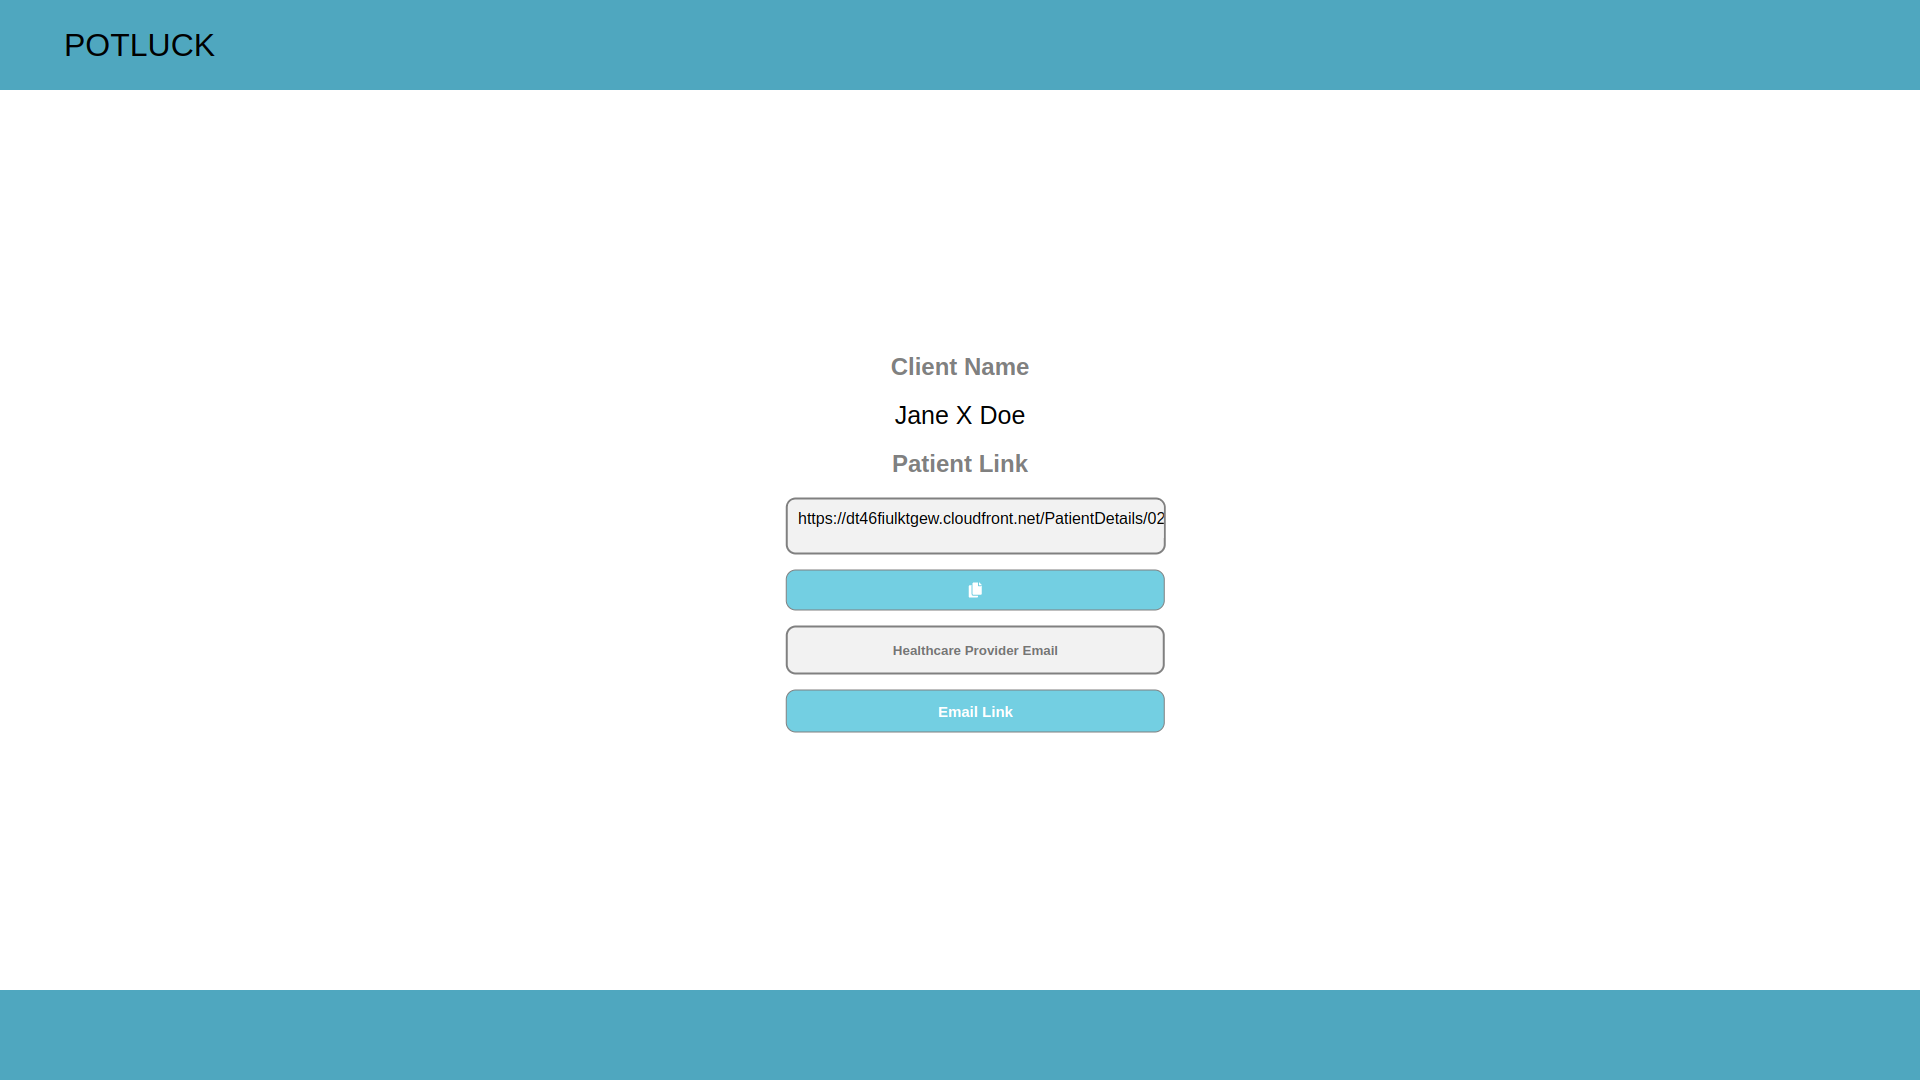
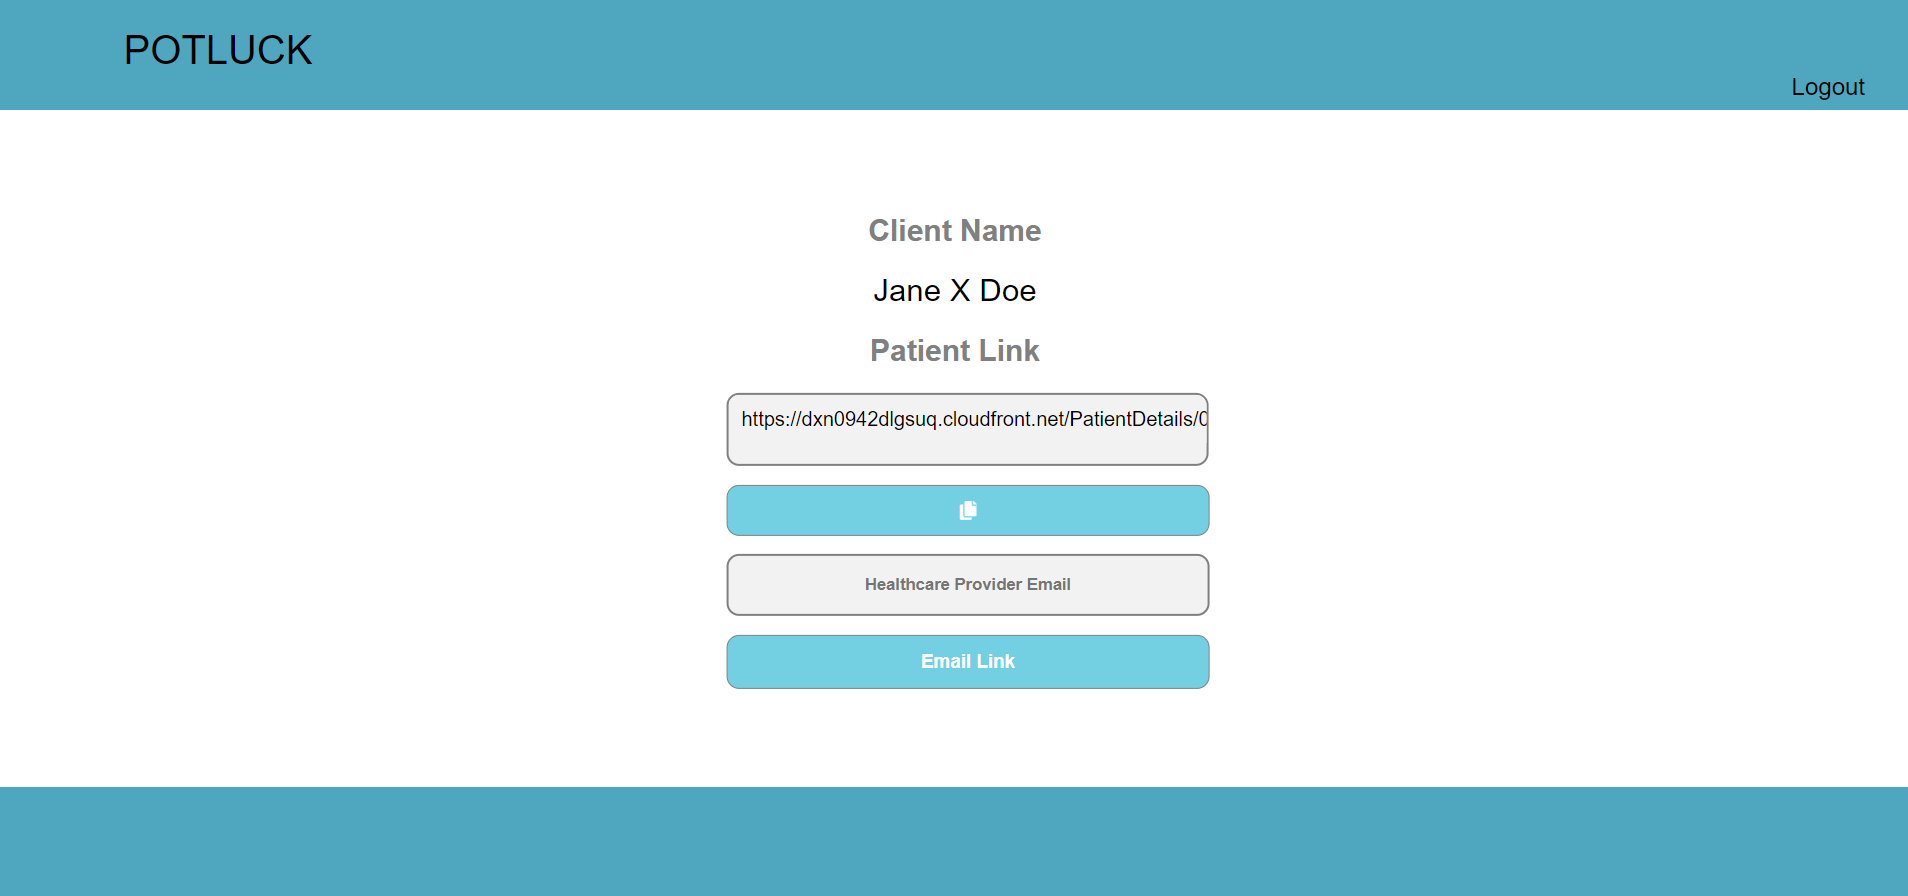
Updated UI docs

diff --git a/web/src/css/Navbar.css b/web/src/css/Navbar.css
@@ -41,7 +41,7 @@ header {
     text-decoration: none;
     font-size: 1.2rem;
     font-family: 'Helvetica';
-    padding: 10px;
+    padding-right: 30px;
 }
 
 footer{

diff --git a/README.md b/README.md
@@ -57,7 +57,7 @@ transportation provider.
 1. Launch a browser and got to the URL.
 2. By default, The `login` page will be loaded.
    ![Login](Docs/login.png)
-3. Append `/signup` to the URL to load the `signup` page
+3. Go to the `signup` URL to register a new transit user.
    ![Signup](Docs/signup.png)
 4. Fill in the required details, and press the `SignUp` button. This will take you to the `email verification` page.
    ![Verify email](Docs/verify_email.png)
